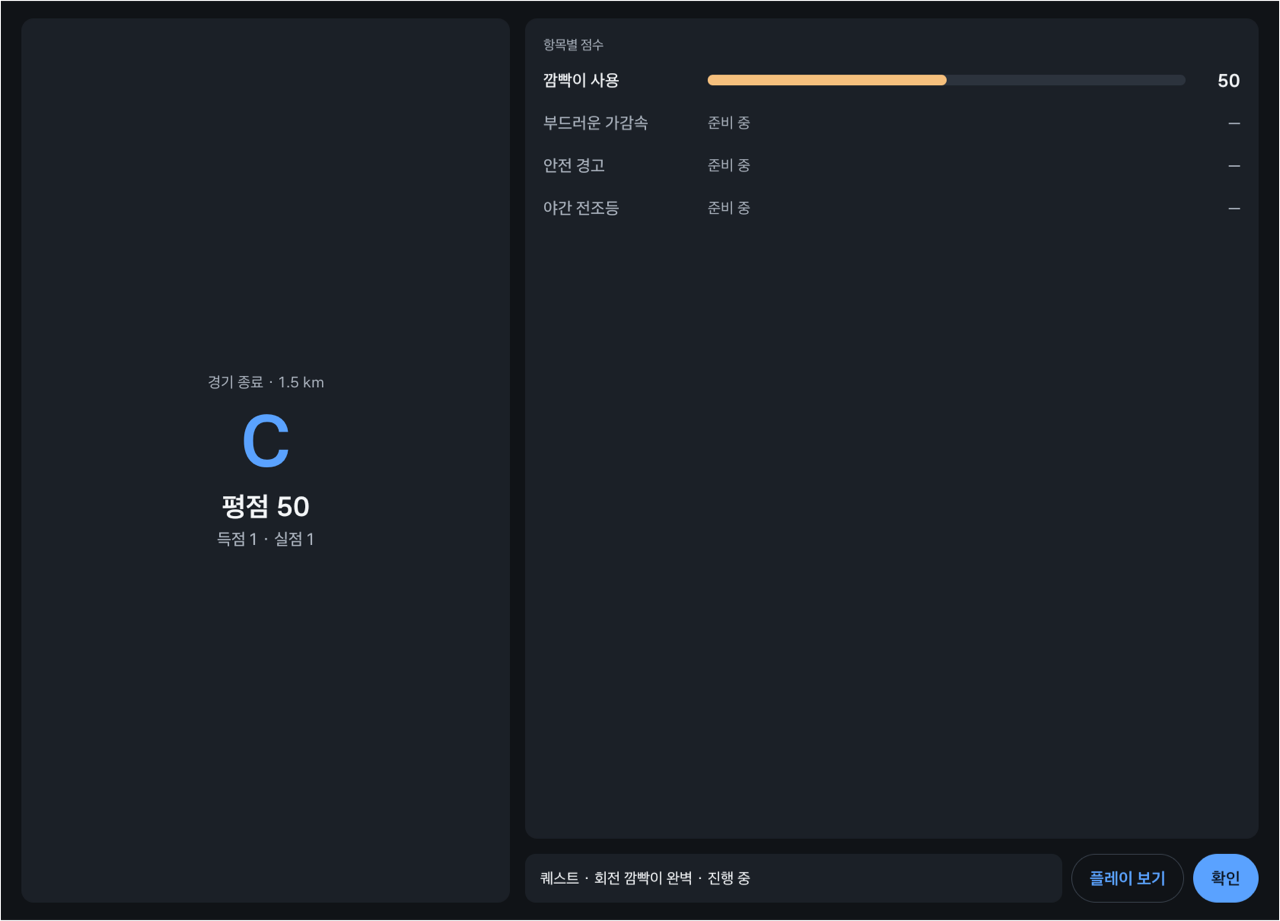
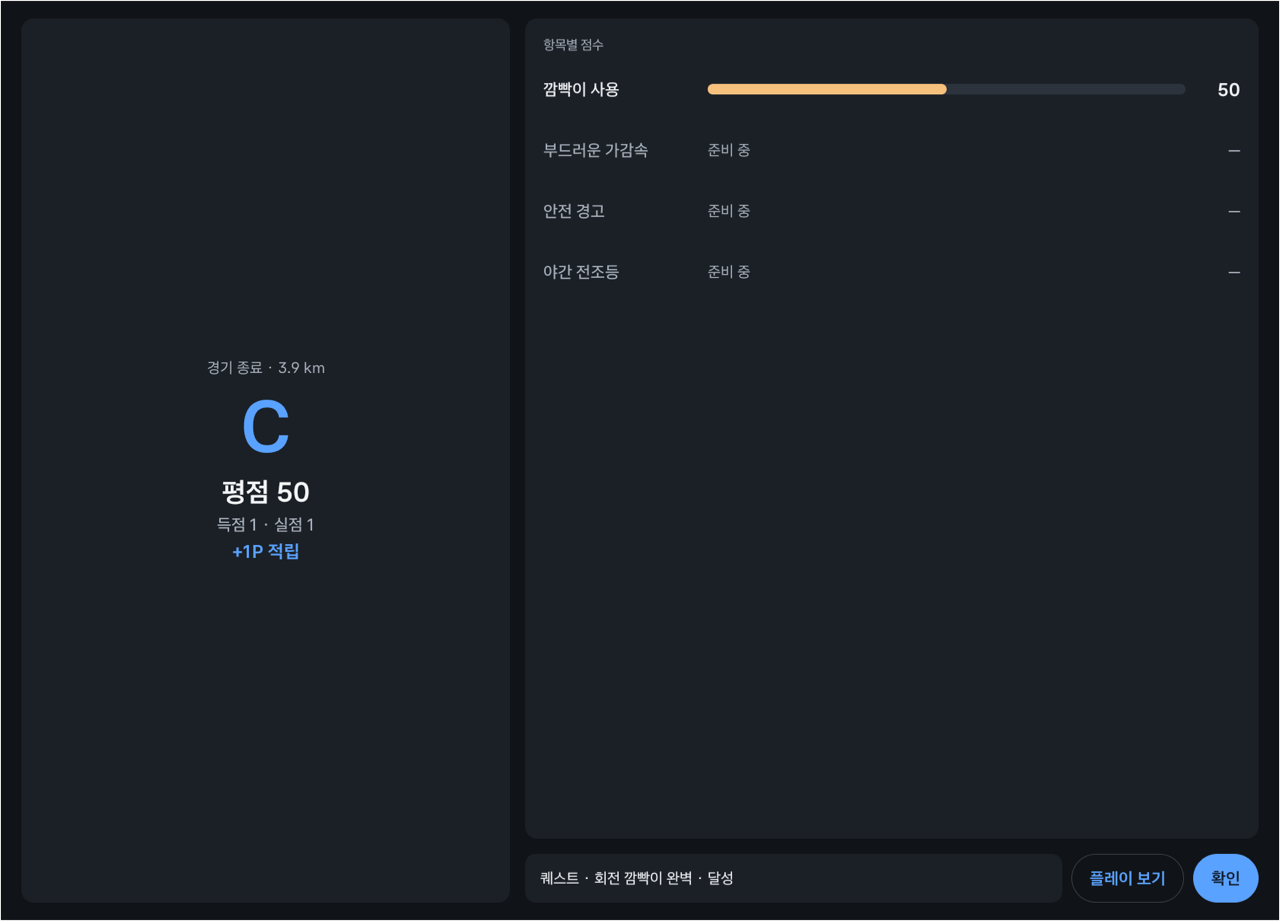
docs: README·화면 문서를 2차 화면에 맞게 갱신, 퀘스트 보상의 P1 표시 제거
- README 스크린샷을 1차(홈·결과·타임라인·항목 상세·퀘스트·온보딩)와 2차(리그·업적·주간 리포트·지갑·설정)로 다시 찍음
- 주요 기능에 리그·보상·보안 추가, 패키지 구조·Preview 목록 갱신
- screen-plan.md: P1 화면 구현 표시
- 퀘스트 화면 "+20P" 옆 "P1" 표시 제거 (포인트 적립이 이미 동작)

diff --git a/automotive/src/main/java/com/example/blinkerleague/ui/quest/QuestScreen.kt b/automotive/src/main/java/com/example/blinkerleague/ui/quest/QuestScreen.kt
@@ -91,11 +91,8 @@ private fun Loaded(mission: TodayMission, onBack: () -> Unit) {
             mission.rewardPoint?.let { point ->
                 Text(stringResource(R.string.quest_reward_label), style = MaterialTheme.typography.labelMedium, color = MaterialTheme.colorScheme.onSurfaceVariant)
                 Row(verticalAlignment = Alignment.CenterVertically, horizontalArrangement = Arrangement.spacedBy(12.dp)) {
+                    // 달성하면 포인트 원장에 적립됨 (지갑 화면)
                     Text(stringResource(R.string.quest_reward, point), style = MaterialTheme.typography.headlineMedium)
-                    // 포인트 지급은 P1 (포인트 원장). 지금은 표시만
-                    Surface(color = MaterialTheme.colorScheme.outlineVariant, shape = RoundedCornerShape(10.dp)) {
-                        Text("P1", style = MaterialTheme.typography.labelMedium, modifier = Modifier.padding(horizontal = 10.dp, vertical = 2.dp))
-                    }
                 }
             }
             Text(

diff --git a/README.md b/README.md
@@ -2,11 +2,21 @@
 
 > 회전할 때 깜빡이를 제때 켰는지 운행마다 판정해 경기처럼 점수·퀘스트로 돌려주는 Android Automotive 앱 (깜빡이리그, Pleos 공모전 출품작)
 
+**1차(경기)** — 정차 후에만 보이는 화면
+
 | 홈 | 경기 결과 | 플레이 타임라인 |
 | --- | --- | --- |
 | ![홈](docs/screenshots/home.png) | ![경기 결과](docs/screenshots/result.png) | ![플레이 타임라인](docs/screenshots/plays.png) |
-| **퀘스트** | **온보딩** | |
-| ![퀘스트](docs/screenshots/quest.png) | ![온보딩](docs/screenshots/onboarding.png) | |
+| **항목 상세** | **퀘스트** | **온보딩** |
+| ![항목 상세](docs/screenshots/metric-detail.png) | ![퀘스트](docs/screenshots/quest.png) | ![온보딩](docs/screenshots/onboarding.png) |
+
+**2차(리그·보상)** — 하단 탭
+
+| 리그 | 업적 | 주간 리포트 |
+| --- | --- | --- |
+| ![리그](docs/screenshots/league.png) | ![업적](docs/screenshots/achievements.png) | ![주간 리포트](docs/screenshots/weekly-report.png) |
+| **지갑** | **설정** | |
+| ![지갑](docs/screenshots/wallet.png) | ![설정](docs/screenshots/settings.png) | |
 
 > Pleos Connect 에뮬레이터의 앱 영역(1682×1210dp) 캡처
 
@@ -24,6 +34,8 @@
 - **경기 결과와 퀘스트**: 정차 후 평점·등급, 득점(켠 회전)·실점(안 켠 회전), 플레이 타임라인, 오늘의 퀘스트 진행도를 보여줍니다.
 - **주행 안전**: 주행 중에는 점수 화면을 띄우지 않고 "기록 중" 화면만 보여줍니다. 음성은 시동 때 퀘스트 안내, 운행 종료 때 결과 한마디만 합니다.
 - **오프라인 우선**: 판정은 기기에서 하고 결과를 먼저 저장합니다. 서버 업로드는 연결되면 자동으로 다시 보냅니다. 원시 위치 좌표는 서버로 보내지 않습니다.
+- **리그와 보상(2차)**: 지역 리그(달력 월 시즌, 권역별 순위·지역 안전지수), 미션 연속 달성과 배지, 포인트 지갑(운행·미션·연속 보상 적립), 주간 리포트(항목별 전주 대비, 다음 주 맞춤 미션), 항목 상세(판정 근거·팁), 설정(권한 다시 요청)
+- **보안**: 토큰·등록 정보는 Android Keystore 키로 암호화, 릴리스는 TLS 1.2 이상·백업 끔·정보 로그 끔 ([Pleos 앱 보안 가이드 대응표](docs/security-checklist.md))
 
 ## 🛠 기술 스택
 
@@ -124,7 +136,7 @@ Android Studio에서는 상단 기기 목록에서 `Pleos_Connect_v2.1.0_API_34`
 
 | 방법 | 용도 | 에뮬레이터 필요 |
 | --- | --- | --- |
-| **Compose Preview** | 화면 디자인만 빠르게 확인. `HomeScreen.kt`, `ResultScreen.kt`, `PlaysScreen.kt`, `QuestScreen.kt`, `OnboardingScreen.kt`, `DrivingScreen.kt`를 열고 Split/Design 탭 | ✗ |
+| **Compose Preview** | 화면 디자인만 빠르게 확인. `ui/*/…Screen.kt`(홈·결과·타임라인·항목 상세·퀘스트·온보딩·주행 중·리그·업적·주간 리포트·지갑·설정)를 열고 Split/Design 탭 | ✗ |
 | **시나리오 재생 (디버그 빌드)** | 홈 아래 "시나리오 재생" → "시연: 좌회전 성공 → 우회전 실패" 10배속 → 몇 초 뒤 경기 결과(득점 1 · 실점 1) | ✓ |
 | **Virtual Console** | 기어·속도·방향지시등·핸들 각도를 브라우저에서 바꿔 가며 실제 신호로 확인 (기어 D면 "기록 중" 화면) | ✓ |
 
@@ -174,7 +186,7 @@ automotive/src/
 │   │   └── region/      # 시군구 목록
 │   ├── service/         # 운행 수집 포그라운드 서비스, 음성 안내 흐름
 │   ├── voice/           # Pleos TextToSpeech 래퍼
-│   └── ui/              # driving(주행 중), home, result(+plays), quest, onboarding, demo, theme, navigation
+│   └── ui/              # driving(주행 중), home, result(+plays·항목 상세), quest, onboarding, league, achievements, report, wallet, settings, demo, theme, navigation
 ├── debug/               # 조사용 코드·권한 (릴리스 APK에 포함 안 됨)
 └── release/             # DebugTools 빈 구현
 ```

diff --git a/docs/screen-plan.md b/docs/screen-plan.md
@@ -15,7 +15,7 @@
 | --- | --- | --- |
 | 주행 중 | DRV 기록 중 화면 (점수·숫자 없음) | P0 |
 | 정차 | SCR-00 온보딩, SCR-01 홈, SCR-02 경기 결과, SCR-02a 플레이 타임라인, SCR-03 퀘스트 상세 | P0 |
-| 정차 | SCR-02b 항목 상세, SCR-04 리그, SCR-05 업적, SCR-06 지갑, SCR-07 주간 리포트, SCR-08 설정 | P1 (이 문서에서는 자리만 둠) |
+| 정차 | SCR-02b 항목 상세, SCR-04 리그, SCR-05 업적, SCR-06 지갑, SCR-07 주간 리포트, SCR-08 설정 | P1 — 11.09 구현(plan.md "2차 앱 작업"). 하단 탭 홈·리그·업적·지갑·설정 |
 | 개발용 | 시나리오 재생 (`ui/demo`) | 유지. 시연 영상(O4)용. 릴리스에서는 숨김 |
 
 P0 목표는 fake `demo_full`을 재생한 뒤 정차하면 SCR-02에 득점 1·실점 1이 보이고, 플레이 보기에 카드 2장이 나오는 것입니다.
